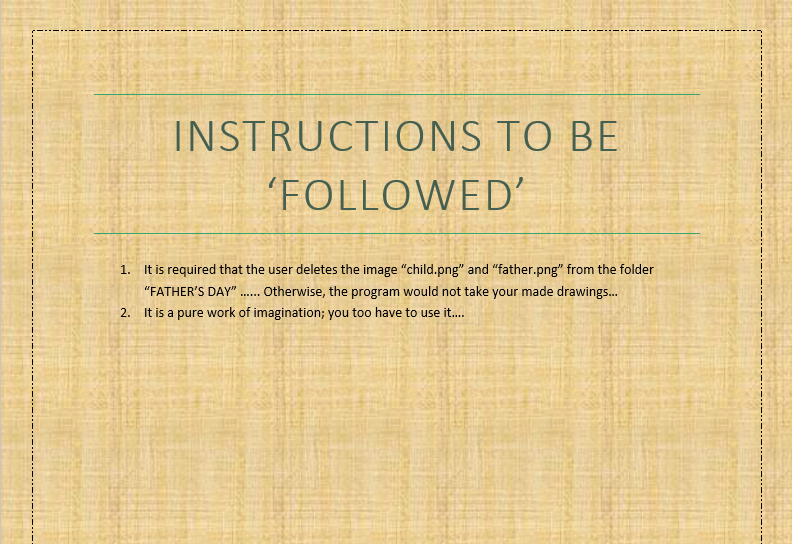
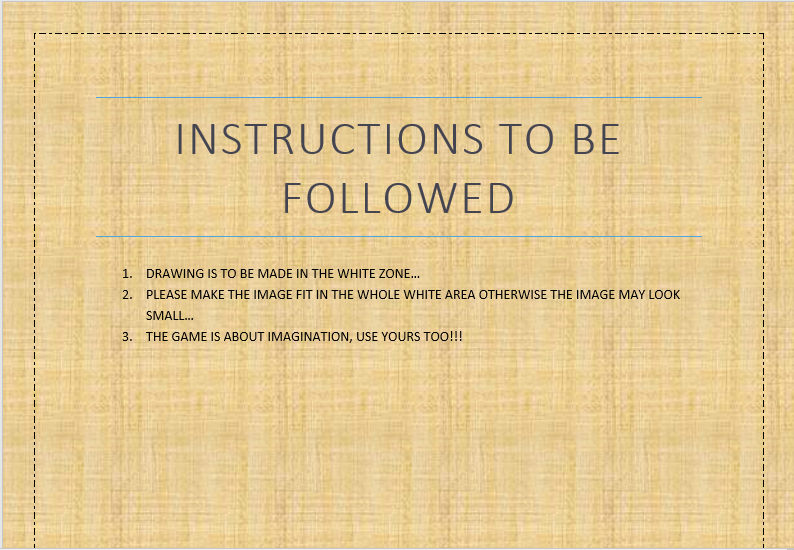
ALMOST DONE (I THINK SO)

diff --git a/sketch.js b/sketch.js
@@ -1,28 +1,60 @@
 var canvas, drawing1, drawing2, gameState = -1,
-button, button1, instructionsImage, child, child_image, father, texa;
+button, button1, instructionsImage, child, child_image, father, texa, sprie, bg,
+car, cars, a_, b_, c_, d_,a, b, interval,tiger, tiger_image, hider, hiders
+//there are some chats to be shown so just don't want to change the gameState for such small matters  
+playState = -1;
 
 function setup() {
   canvas = createCanvas(700, 600);
+  //made the canvas store in a div so that I can arbitrarily use screen outside canvas 
   canvas.parent("ccd");
+  bg = loadImage("bg.jpg");
+  //almost made all sprites according to their depths
+
+  tiger_image = loadImage("tiger.png");
+  tiger = createSprite(100,300,10,10);
+  tiger.addImage(tiger_image);
+  tiger.scale = 0.2;
+
+  hider = loadImage("hider.png");
+  hiders = createSprite(10,270,10,10);
+  hiders.addImage(hider);
+  hiders.scale = 1.3;
+
+  car = loadImage("car.png");
+
+  cars = createSprite(950,495,10,10);
+  cars.addImage(car);
+  cars.scale = 0.5;
+
+  a_ = loadImage("1.png");
+  a = createSprite(400,380,10,10);
+  a.addImage(a_);
+
+  b_ = loadImage("2.png");
+  b = createSprite(550,380,10,10);
+  b.addImage(b_);
+
+  c_ = loadImage("wigflip-ds (1).png");
+  d_ = loadImage("wigflip-ds (2).png");
 
   instructionsImage = loadImage("Annotation 2020-06-15 204656.png");
 
   // Create a new buffer with the same size
-  drawing1 = createGraphics(width, height);  
-  drawing2 = createGraphics(width, height);
+  drawing1 = createGraphics(233, 600); 
+  drawing2 = createGraphics(233, 600);
+
+  sprie = createSprite(466,300,466,600);
   
   button = createButton("create");
   button.position(720,20);
   
   button1 = createButton("NEXT");
-  button1.position(720,350);
+  button1.position(720,280);
 
   child = createSprite(300,300,50,90);
-  child.visible = false;
 
   father = createSprite(210,300,50,110);
-  father.visible = false;
-
   texa = createElement("h5");
   texa.html("CREATE HOW YOU WANT TO SEE YOURSELF IN THE GAME");
   texa.position(20,620);
@@ -30,17 +62,29 @@ function setup() {
   texb = createElement("h5");
   texb.html("CREATE HOW YOU WANT TO SEE YOUR FATHER IN THE GAME");
   texb.position(20,620);
-}
 
-function draw() {
+  texc = createElement("h5");
+  texc.html("CLICK ANYWHERE ON THE SCREEN TO CONTINUE")
+}
+function draw(){
 
   background("white");
+  sprie.shapeColor = "blue";
 
-  
+  // just in case, the father and child don't go out from the screen
+  child.x = constrain(child.x, 0, width);
+  father.y = constrain(child.x, 0, height);
+
+  //falsing the visibility of every thing that's not required at the moment
+  child.visible = false;
+  father.visible = false;
+  sprie.visible = false;
+  hiders.visible = false;
+  tiger.visible = false;
 
   texa.hide();
   texb.hide();
-    
+  texc.hide();
   button1.hide();
   button.hide();
 
@@ -55,11 +99,13 @@ function draw() {
   }
   if(gameState === 0){
 
+    sprie.visible = true;
+
     texa.show()
     button.show();
     
     if(mouseIsPressed){
-      strokeWeight(4);
+      drawing1.strokeWeight(8);
       // Call the line function on the drawing buffer
       drawing1.line(mouseX, mouseY, pmouseX, pmouseY);
     }
@@ -72,11 +118,13 @@ function draw() {
   }
   if(gameState === 1){
 
+    sprie.visible = true;
+
     texb.show();
     button.show();
     
     if(mouseIsPressed){
-      strokeWeight(4);
+      drawing2.strokeWeight(8);
       // Call the line function on the drawing buffer
       drawing2.line(mouseX, mouseY, pmouseX, pmouseY);
     }
@@ -86,11 +134,114 @@ function draw() {
         texa.position(10000,10000);
       });
     }
-  if(gameState === 3){
-    child.visible = true;
-    child_image.loadImage(image(drawing1),child.x,child.width,child.height);
-    child.addImage(child_image);
-    father.visible = true;
+  if(gameState === 2){
+
+    background(bg);
+
+    tiger.visible = true;
+    hiders.visible = true;
+
+    child.x = cars.x;
+    child.y = cars.y - 80;
+
+    father.x = cars.x + 110;
+    father.y = cars.y - 80;
+
+    update();
+    
+    setInterval(() => {
+      cars.velocityX = -3;
+      
+      if(mouseIsPressed){
+        texc.hide();
+      }  
+      
+      if(cars.x < 350){
+        cars.velocityX = 0;
+      }
+      if(cars.x === 348){
+        playState = 0;
+      }
+
+    }, 2000);
+
   }
-  drawSprites()
+  if(gameState === 3){
+  }
+
+  changeChats();
+  console.log(playState);
+  drawSprites();
+}
+  
+function update(){
+
+  //loadImage was not working so tried this and this worked even better
+  image(drawing1,child.x,child.y,child.width,child.height);
+  image(drawing2,father.x,father.y,father.width,father.height);
+
+}
+
+function changeChats(){
+  
+  //for gameState 2    
+  //playState can't be any number other than -1 if gameState !== 2
+  if(playState === 0){
+    //small shift of car so that playState works fine because of line 151
+    cars.x = 349;
+    
+    a.visible = true;
+
+    if(mouseIsPressed){
+      playState  = 1;
+    }
+  } else {a.visible = false;};
+
+  if(playState === 1){
+    b.visible = true;
+    a.visible = false;
+    interval = setInterval(() =>{
+    if(mouseIsPressed){
+      playState = 2;
+      clearInterval(interval);
+    }
+  },1000);
+    
+  } else {b.visible = false;};
+
+  if(playState === 2){
+    
+    tiger.velocityX = 1;
+
+    var toto = setInterval(()=>{
+      tiger.velocityX = -1;
+
+      if(tiger.x <= 100){
+        playState = 3;      
+        clearInterval(toto);
+      }
+
+    },500);
+  }
+
+  if(playState === 3){
+    a.visible = true;
+    
+    a.changeImage(c_);
+
+    if(mouseIsPressed){
+      playState = 4;
+    }
+  } else {a.visible = false;};
+  //the above else condition is just to make sure everything works okay
+
+  if(playState === 4){
+    b.visible = true;
+
+    b.changeImage(d_);
+
+    if(mouseIsPressed){
+      playState = 5;
+    }
+  }
 }
